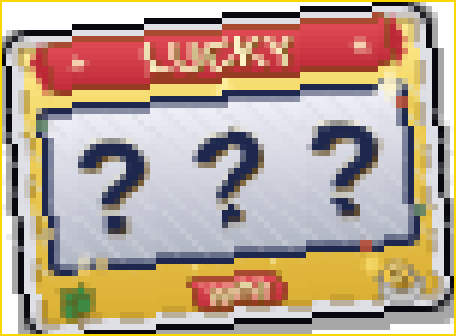
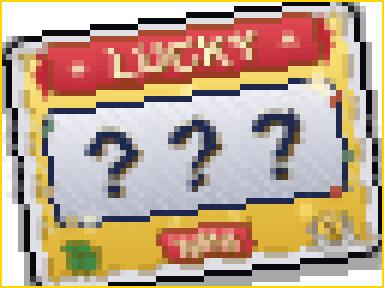
LOTTERY: D2 v3 - slightly smaller canvas + original tilt amplitude
User feedback on v2: "Make it slightly small and keep the
animation original design had."

Changes:
  * native footprint 76x56 -> 64x48 (slightly smaller, closer
    to the live icon's footprint but still 38% bigger than v1
    so the new text + richness reads clearly)
  * tilt amplitude restored to the original ±8° (was ±5° in
    v1/v2 - this matches the original live _draw_lottery_icon)
  * vertical bob (sin(pulse * 0.8) * 2) is documented in the
    function docstring so the final integration into
    entities.py preserves it
  * confetti dot positions slightly adjusted for the new
    canvas size; everything else (banner, panel, clover, coin,
    WIN stamp, sun-rays, sparkles, black perimeter at 1 SS) is
    unchanged from v2

diff --git a/tools/render_lottery_d2_rich.py b/tools/render_lottery_d2_rich.py
@@ -1,16 +1,18 @@
 """Render the LOTTERY scratch-card icon — D2 polished and richer.
 
 User picked D2 (LUCKY arched red banner) as the direction. This
-version (v2):
+version (v3):
 
-  * native footprint bumped 56×42 → 76×56 (1.35x linear, 1.8x
-    pixel area) so all text + detail reads sharply
-  * black outer perimeter slimmed from 2 SS to 1 SS so it reads
-    as a clean outline rather than a heavy frame
-  * banner height bumped 6 SS → 9 SS — "LUCKY" caption is now
-    ~7 native px tall instead of ~5
-  * "WIN!" stamp height bumped 4 SS → 6 SS
-  * "? ? ?" panel font scales with the larger panel automatically
+  * native footprint 64×48 — slightly smaller than v2's 76×56
+    (closer to the original 40×30 live icon) but still ~38%
+    bigger than v1 so the text reads sharply
+  * black outer perimeter is 1 SS thin (kept from v2)
+  * banner height 9 SS (kept from v2) — "LUCKY" reads crisply
+  * "WIN!" stamp height 6 SS (kept from v2)
+  * tilt animation restored to the original ±8° amplitude
+    (was ±5° in v1/v2)
+  * vertical bob from the original live icon is preserved by
+    the final integration — see the comment in draw_d2_rich
 
 Still keeps every richness element from v1:
   * 2 cream sparkle stars flanking "LUCKY" on the banner
@@ -63,12 +65,11 @@ os.makedirs(_OUT, exist_ok=True)
 BLACK = (8, 8, 14)
 TEAL  = (90, 175, 175)
 
-# Bigger native footprint = more display pixels per icon. The
-# powerup collision radius is unchanged (POWERUP_R = 14); the
-# visual just runs a touch larger than the hitbox, same as the
-# skateboard icon (72×72) does.
-NATIVE_W = 76
-NATIVE_H = 56
+# Slightly smaller than v2 (was 76×56) — closer to the live
+# icon's original footprint, but still significantly larger than
+# the 40×30 live size so the new richness reads.
+NATIVE_W = 64
+NATIVE_H = 48
 
 
 def _gold_card_base_black_rim(big, SS):
@@ -112,9 +113,14 @@ def _gold_card_base_black_rim(big, SS):
 
 
 def draw_d2_rich(surf, cx, cy, pulse):
-    """D2 rich v2 — LUCKY banner + clover + coin + WIN stamp +
-    light rays + confetti + black outer perimeter on a 76×56 canvas
-    for sharper text + detail."""
+    """D2 rich v3 — LUCKY banner + clover + coin + WIN stamp +
+    light rays + confetti + black outer perimeter on a 64×48
+    canvas. Tilt amplitude restored to the original ±8°.
+
+    Live integration note: the original _draw_lottery_icon also
+    bobs vertically by sin(pulse * 0.8) * 2 px around its
+    anchor — that should be added at the entities.py call site
+    (not here, since the static renderer can't show motion)."""
 
     def paint(big, SS):
         card, inner = _gold_card_base_black_rim(big, SS)
@@ -238,7 +244,10 @@ def draw_d2_rich(surf, cx, cy, pulse):
                  int(SS * 2.2), colour=(255, 230, 120))
 
     icon = _ss_paint(paint, native_w=NATIVE_W, native_h=NATIVE_H)
-    tilt = math.sin(pulse * 0.7) * 5
+    # Tilt amplitude matches the original live _draw_lottery_icon
+    # (±8°) so the new card has the same "alive" feel as the
+    # previous one.
+    tilt = math.sin(pulse * 0.7) * 8
     rotated = pygame.transform.rotate(icon, tilt)
     surf.blit(rotated, rotated.get_rect(center=(cx, cy)))
 
